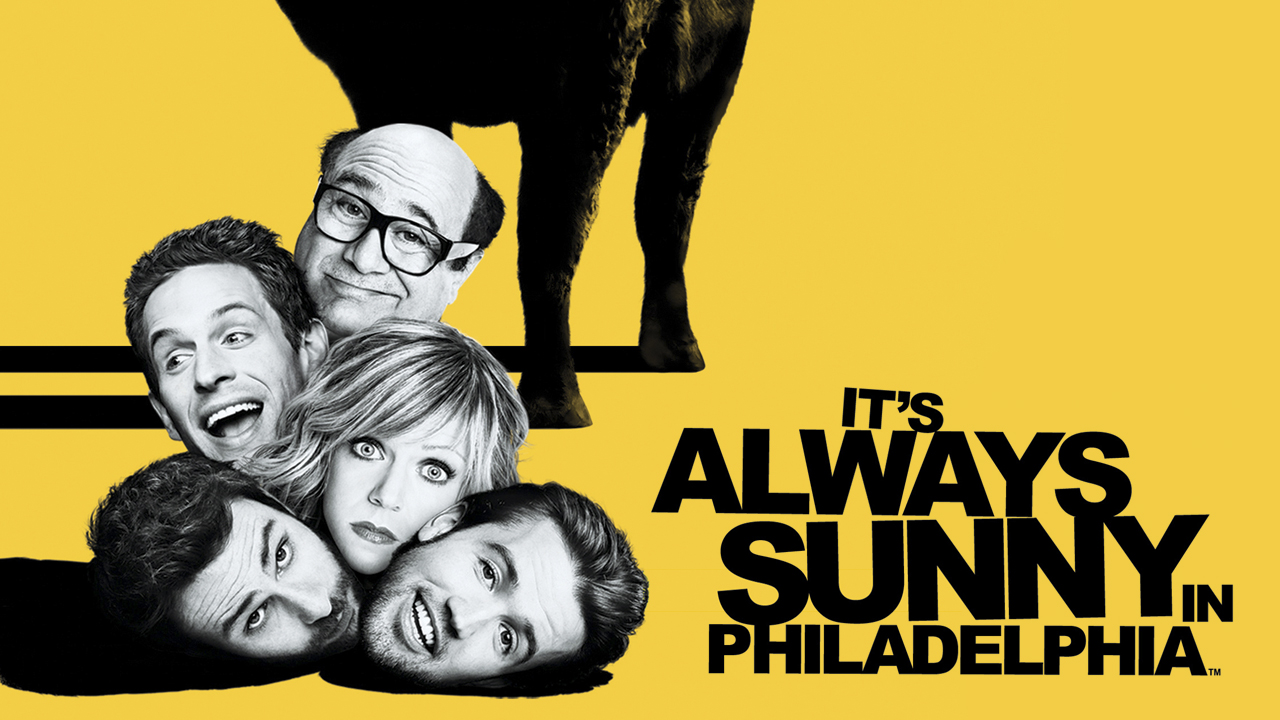
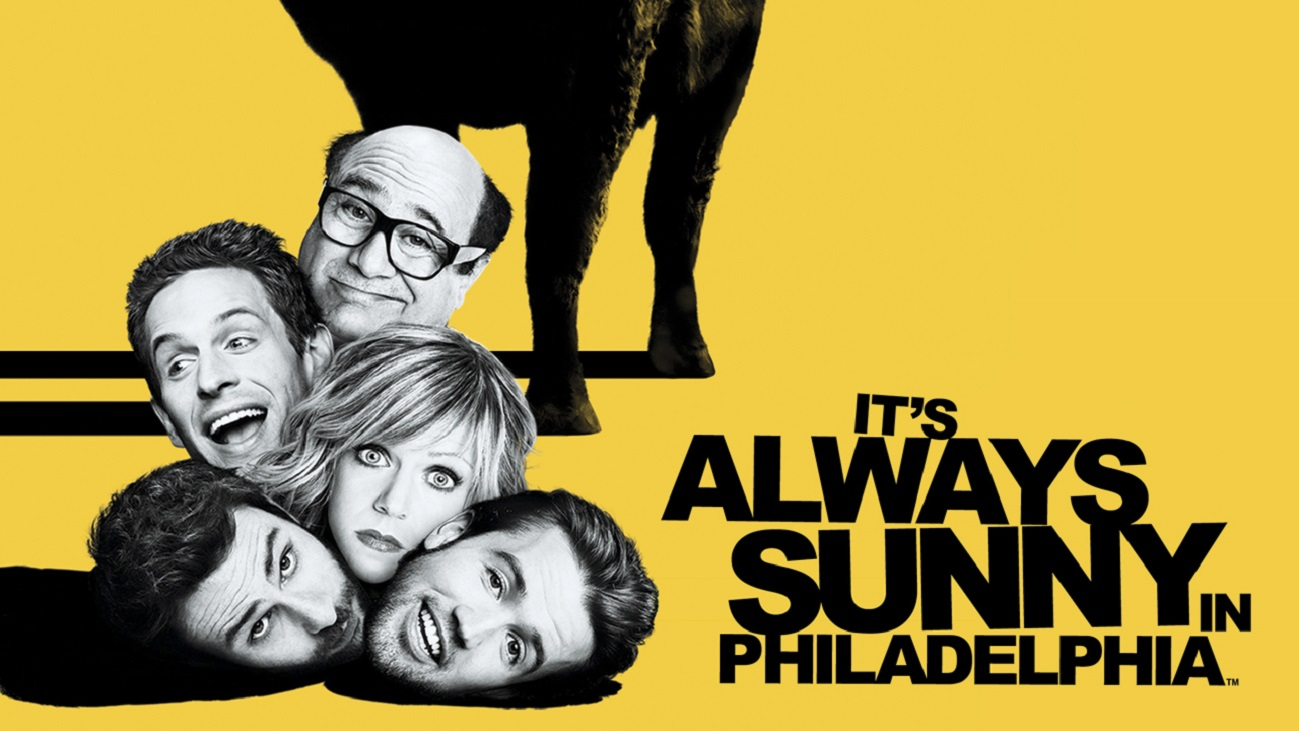
modif carousel

diff --git a/public/assets/css/style.css b/public/assets/css/style.css
@@ -17,6 +17,8 @@ html, body {
 	float: right;
 	background-color: rgba(255, 255, 255, 0.5);
 }
+
+
 /*********************************
 Barre de recherche
 *********************************/
@@ -27,10 +29,10 @@ Barre de recherche
 .navbar.navbar-default {
 	width: 100%; 
 	background-color: rgba(255, 255, 255, 0.5);
+    margin-bottom: 0;
 }
 
 .navbar-form {
-	
 	margin: 0 auto;
 	width: 50%; 
 }
@@ -48,57 +50,11 @@ Barre de recherche
 	background-color: rgba(255, 255, 255, 0.5);
 }
 
-/* #search-input .form-control {
+#search-input .form-control {
     width: 500px;
 }
- */
+ 
 
 /*************************
 Diaporama
 /*************************/
-
-.carousel { /* keeps this behind all content */
-    z-index: -99; 
-} 
-
-.carousel .item {
-    position: fixed; 
-    width: 100%; height: 100%;
-    -webkit-transition: opacity 1s;
-    -moz-transition: opacity 1s;
-    -ms-transition: opacity 1s;
-    -o-transition: opacity 1s;
-    transition: opacity 1s;
- 
-}
-.carousel .one {
-    background: url(../img/GOT.png);
-    background-size: 100%;
-    background-repeat: no-repeat;
-    -moz-background-size: cover;
-}
-.carousel .two {
-    background: url(../img/orangebg.jpg);
-    background-size: 100%;
-    background-repeat: no-repeat;
-    -moz-background-size: cover;
-}
-.carousel .three {
-    background: url(../img/parks.jpg);
-    background-size: 100%;
-    background-repeat: no-repeat;
-    -moz-background-size: cover;
-}
-
-.carousel .four {
-    background: url(../img/sunny.jpg);
-    background-size: 100%;
-    background-repeat: no-repeat;
-    -moz-background-size: cover;
-}
-
-.carousel .active.left {
-    left:0;
-    opacity:0;
-    z-index:2;
-}

diff --git a/app/templates/default/home.php b/app/templates/default/home.php
@@ -3,16 +3,26 @@
 
 <?= $this->start('header') ?>
 
-<div class="container-fluid" id="header">
-
-	<div id="series-carousel" class="carousel container slide">
-  		<div class="carousel-inner">
-            <div class="active item one"></div>
-            <div class="item two"></div>
-            <div class="item three"></div>
-            <div class="item four"></div>       
+<!-- carousel -->
+<div id="carousel-example-generic" class="carousel slide" data-ride="carousel">
+  <!-- Wrapper for slides -->
+  <div class="carousel-inner" role="listbox">
+    <div class="item active">
+      <img src="<?= $this->assetUrl('img/got.png') ?>" alt="Game of Throne">
+      <div class="carousel-caption">
+      </div>
+    </div>
+    <div class="item">
+      <img src="<?= $this->assetUrl('img/orangebg.jpg') ?>" alt="Orange is the new black">
+      <div class="carousel-caption">
+      </div>
+    </div>
+    <div class="item">
+      <img src="<?= $this->assetUrl('img/sunny.jpg') ?>" alt="It's always sunny in Philadelphia">
+      <div class="carousel-caption">
+      </div>
+    </div>
   </div>
-
 </div>
 
 <?= $this->stop('header') ?>

diff --git a/app/templates/layout.php b/app/templates/layout.php
@@ -22,7 +22,7 @@
 
  		<nav class="navbar navbar-default" role="navigation">
  		
- 			<?= $this->section('header') ?> 
+ 			
 
  			<!--Diaporama de la page home.php-->
 
@@ -72,14 +72,16 @@
 		
 		</nav>
 
+		<?= $this->section('header') ?> 
 
-		<form class="navbar-form" role="search">
-        	<div id="search-input" class="form-group">
-          		<input type="text" class="form-control" placeholder="Search">
-          	 </div>
-    		<button type="submit" class="btn btn-default">Search</button>
-      	</form>
 
+		<!-- <form class="navbar-form" role="search">
+		        	<div id="search-input" class="form-group">
+		          		<input type="text" class="form-control" placeholder="Search">
+		          	 </div>
+		    		<button type="submit" class="btn btn-default">Search</button>
+		      	</form>
+		 -->
 
 
 
